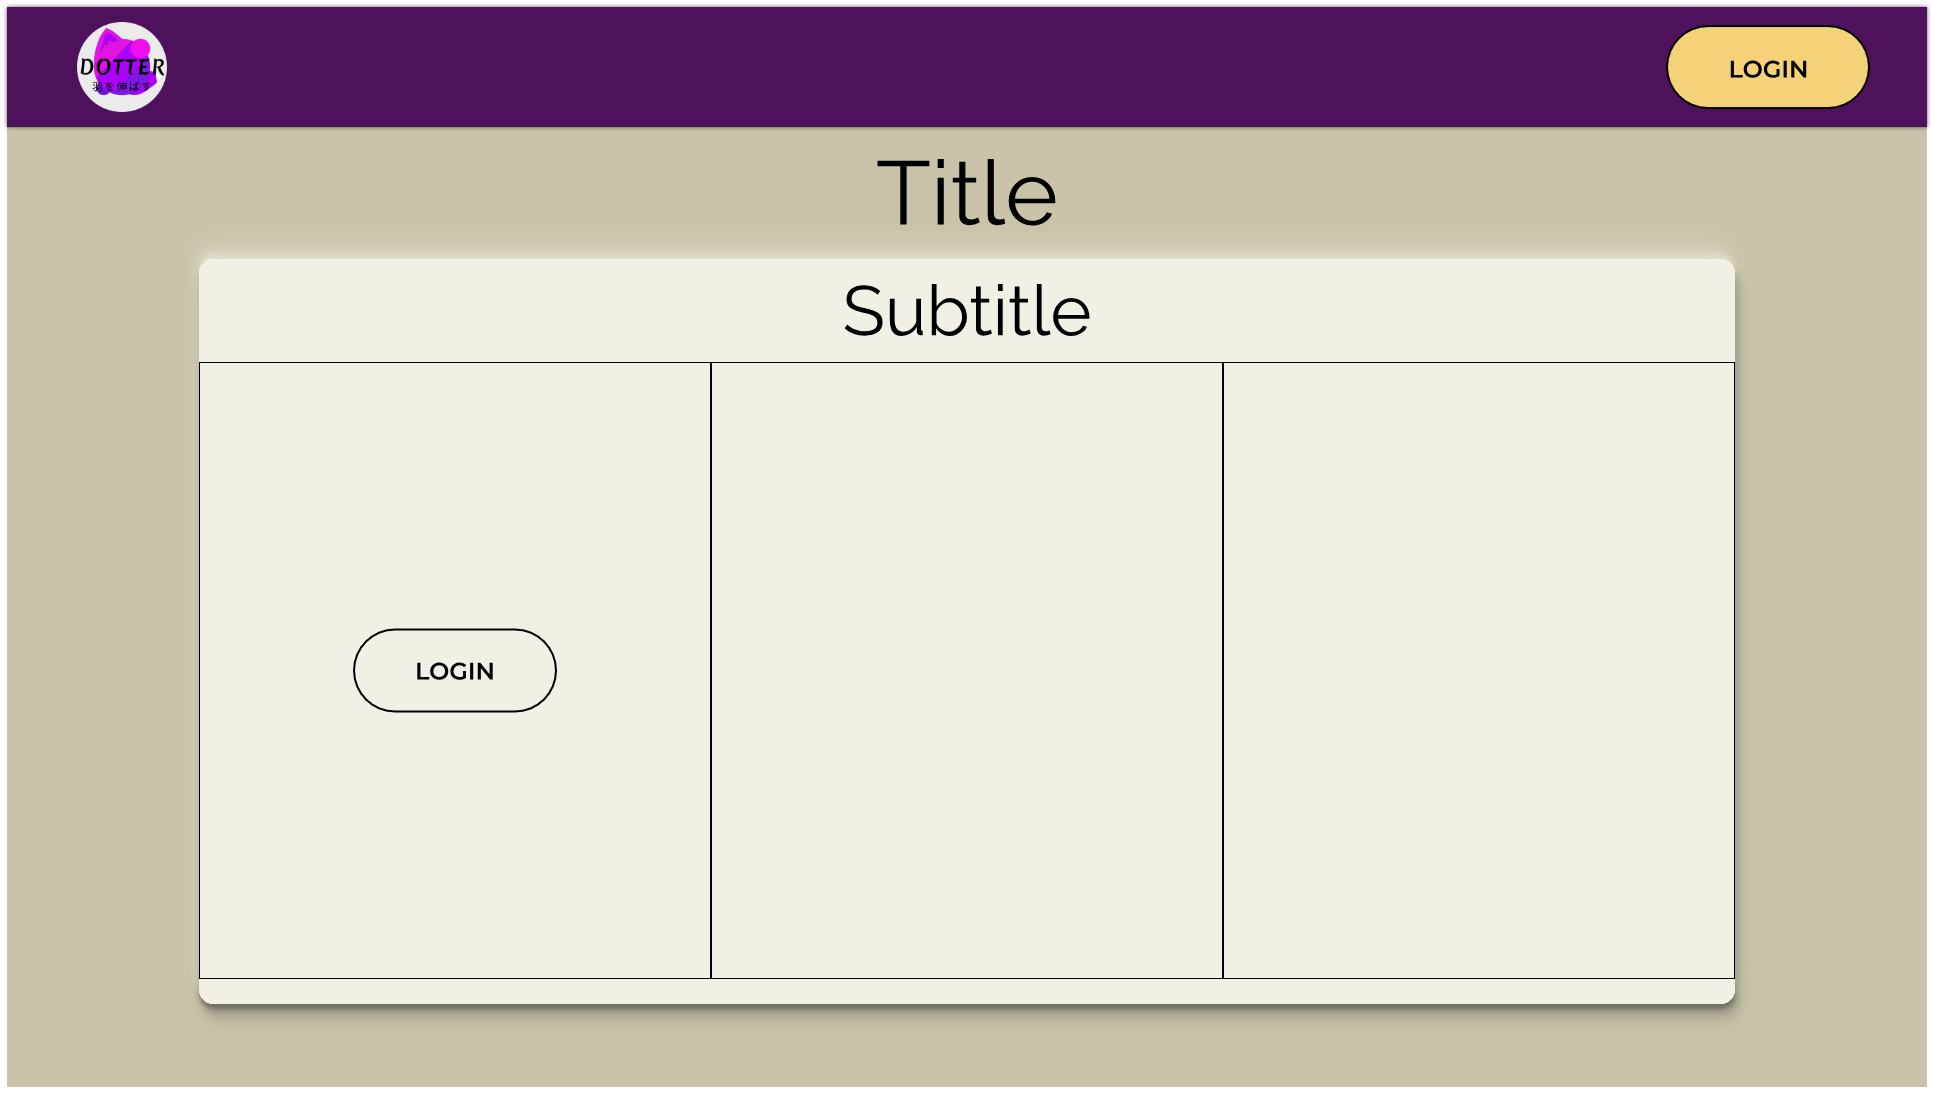
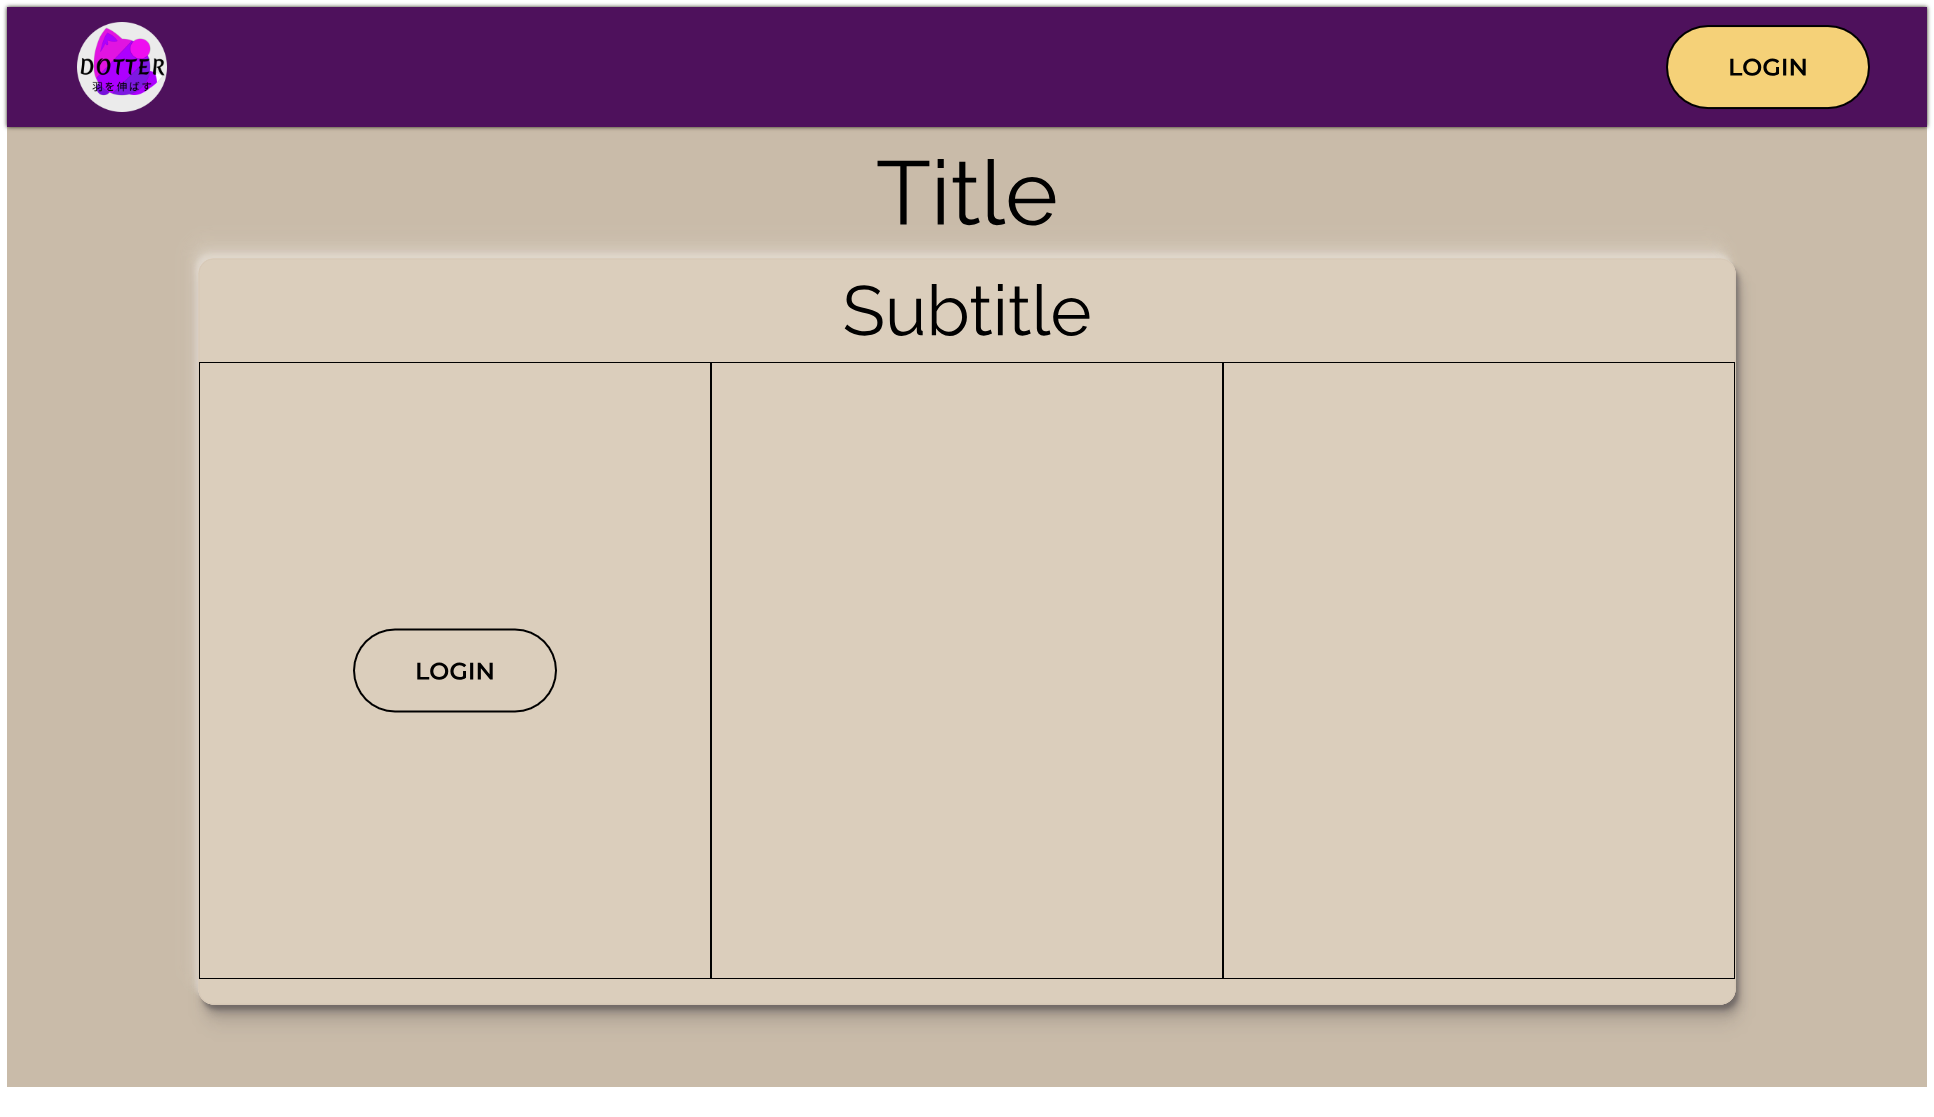
Updated colours for style

diff --git a/August-2020/STYLE.md b/August-2020/STYLE.md
@@ -27,7 +27,7 @@
 * Max width: 100%
 * Width: 100vw
 * Height: 100vh
-* Background: #C9C4A9
+* Background: #C9BBA9
 
 ## Header
 **Attribute:** #l-header
@@ -46,6 +46,11 @@
 * Left: 0
 * Height: 120px;
 * Background: #4E115C
+* Box shadow:
+    * X,Y: [0,0]
+    * Blur: 5
+    * Opacity: 100%
+    * Colour: #282817
 
 ## Content
 **Attribute:** #l-content
@@ -80,36 +85,37 @@
     * Bottom: 30x
 * Box Shadows:
     * Dark Layer 1:
-        * X,Y: [0,5]
+        * X,Y: [3,5]
         * Blur: 5
         * Opacity: 30%
         * Colour: #171622
     * Dark Layer 2:
-        * X,Y: [3,10]
+        * X,Y: [5,10]
         * Blur: 10
         * Opacity: 20%
         * Colour: #171622
     * Dark Layer 3:
-        * X,Y: [5,20]
+        * X,Y: [10,20]
         * Blur: 20
         * Opacity: 30%
         * Colour: #171622
     * Light Layer 1:
-        * X,Y: [0,-5]
+        * X,Y: [-3,-5]
         * Blur: 5
         * Opacity: 30%
-        * Colour: #F4F3ED
+        * Colour: #F4F2ED
     * Light Layer 2:
-        * X,Y: [-3,-10]
+        * X,Y: [-5,-10]
         * Blur: 10
         * Opacity: 20%
-        * Colour: #F4F3ED
+        * Colour: #F4F2ED
     * Light Layer 3:
-        * X,Y: [-5,-20]
+        * X,Y: [-10,-20]
         * Blur: 20
         * Opacity: 30%
-        * Colour: #F4F3ED
-* Background: #F2F0E5
+        * Colour: #F4F2ED
+* Background: #DBCEBC
+* Border: 1px solid #D7C9B7
 * Border Radius: 15px
 * `> *`:
     * `:not(:last-child)`:
